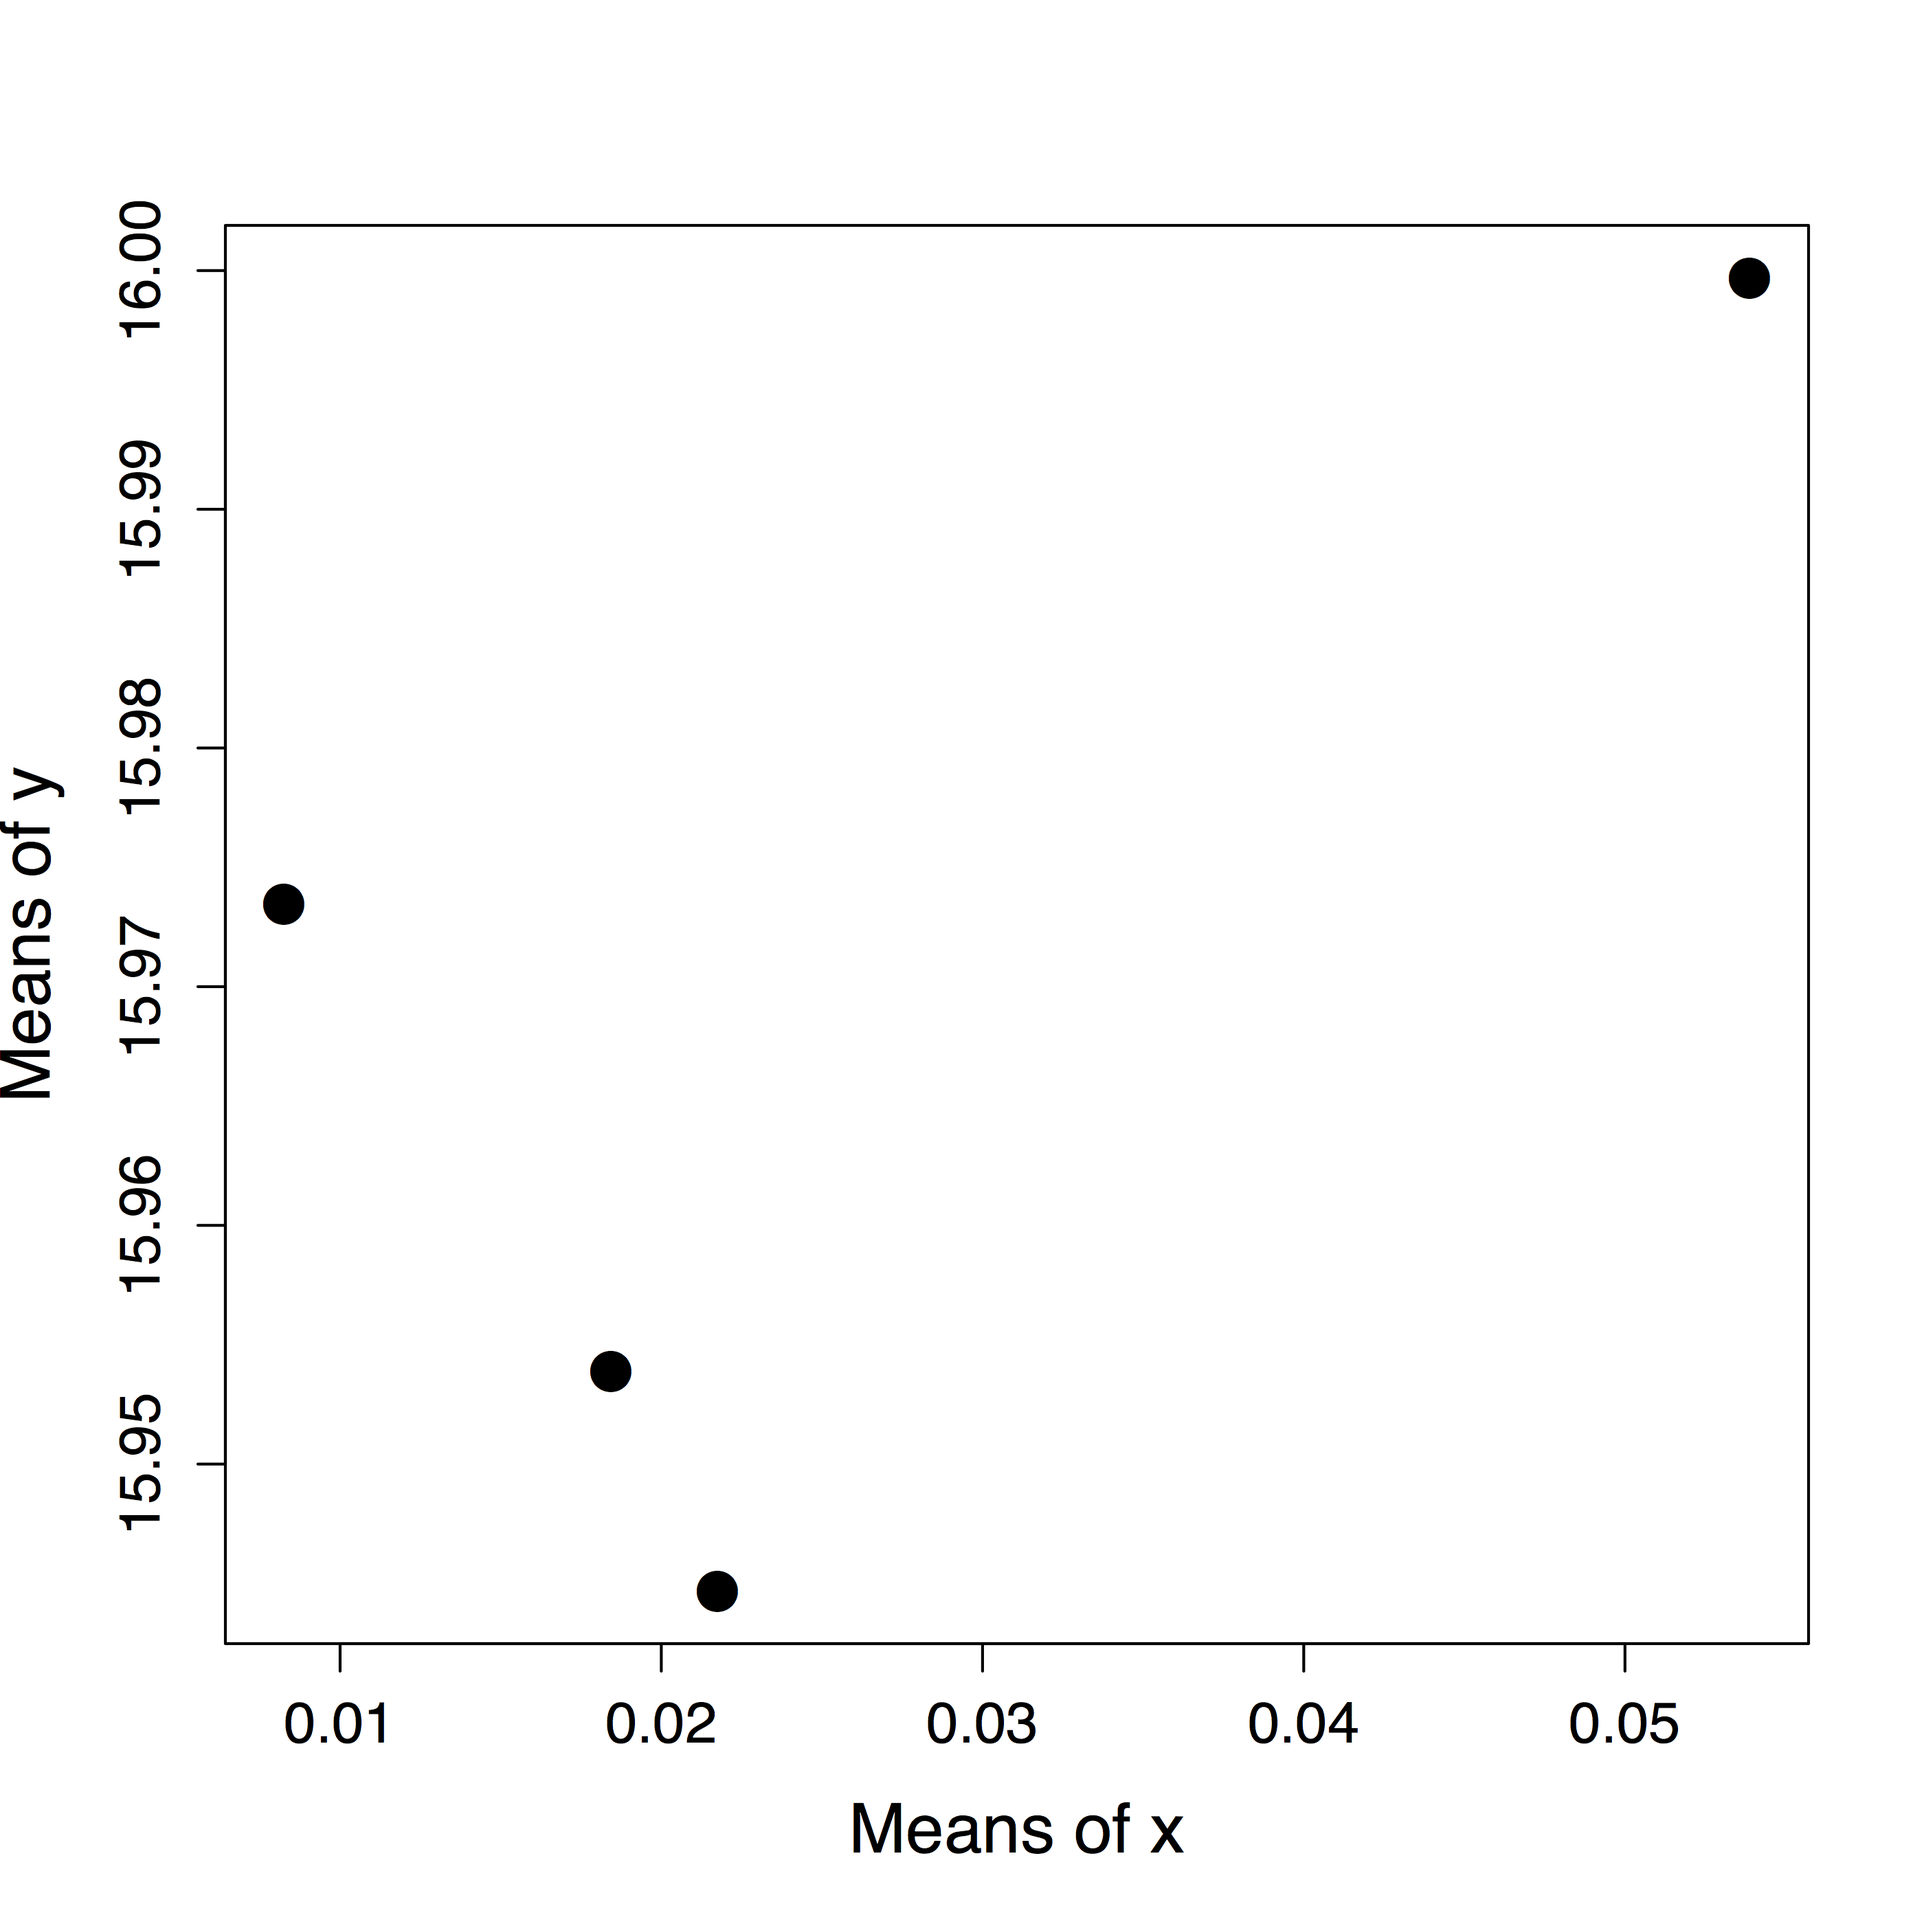
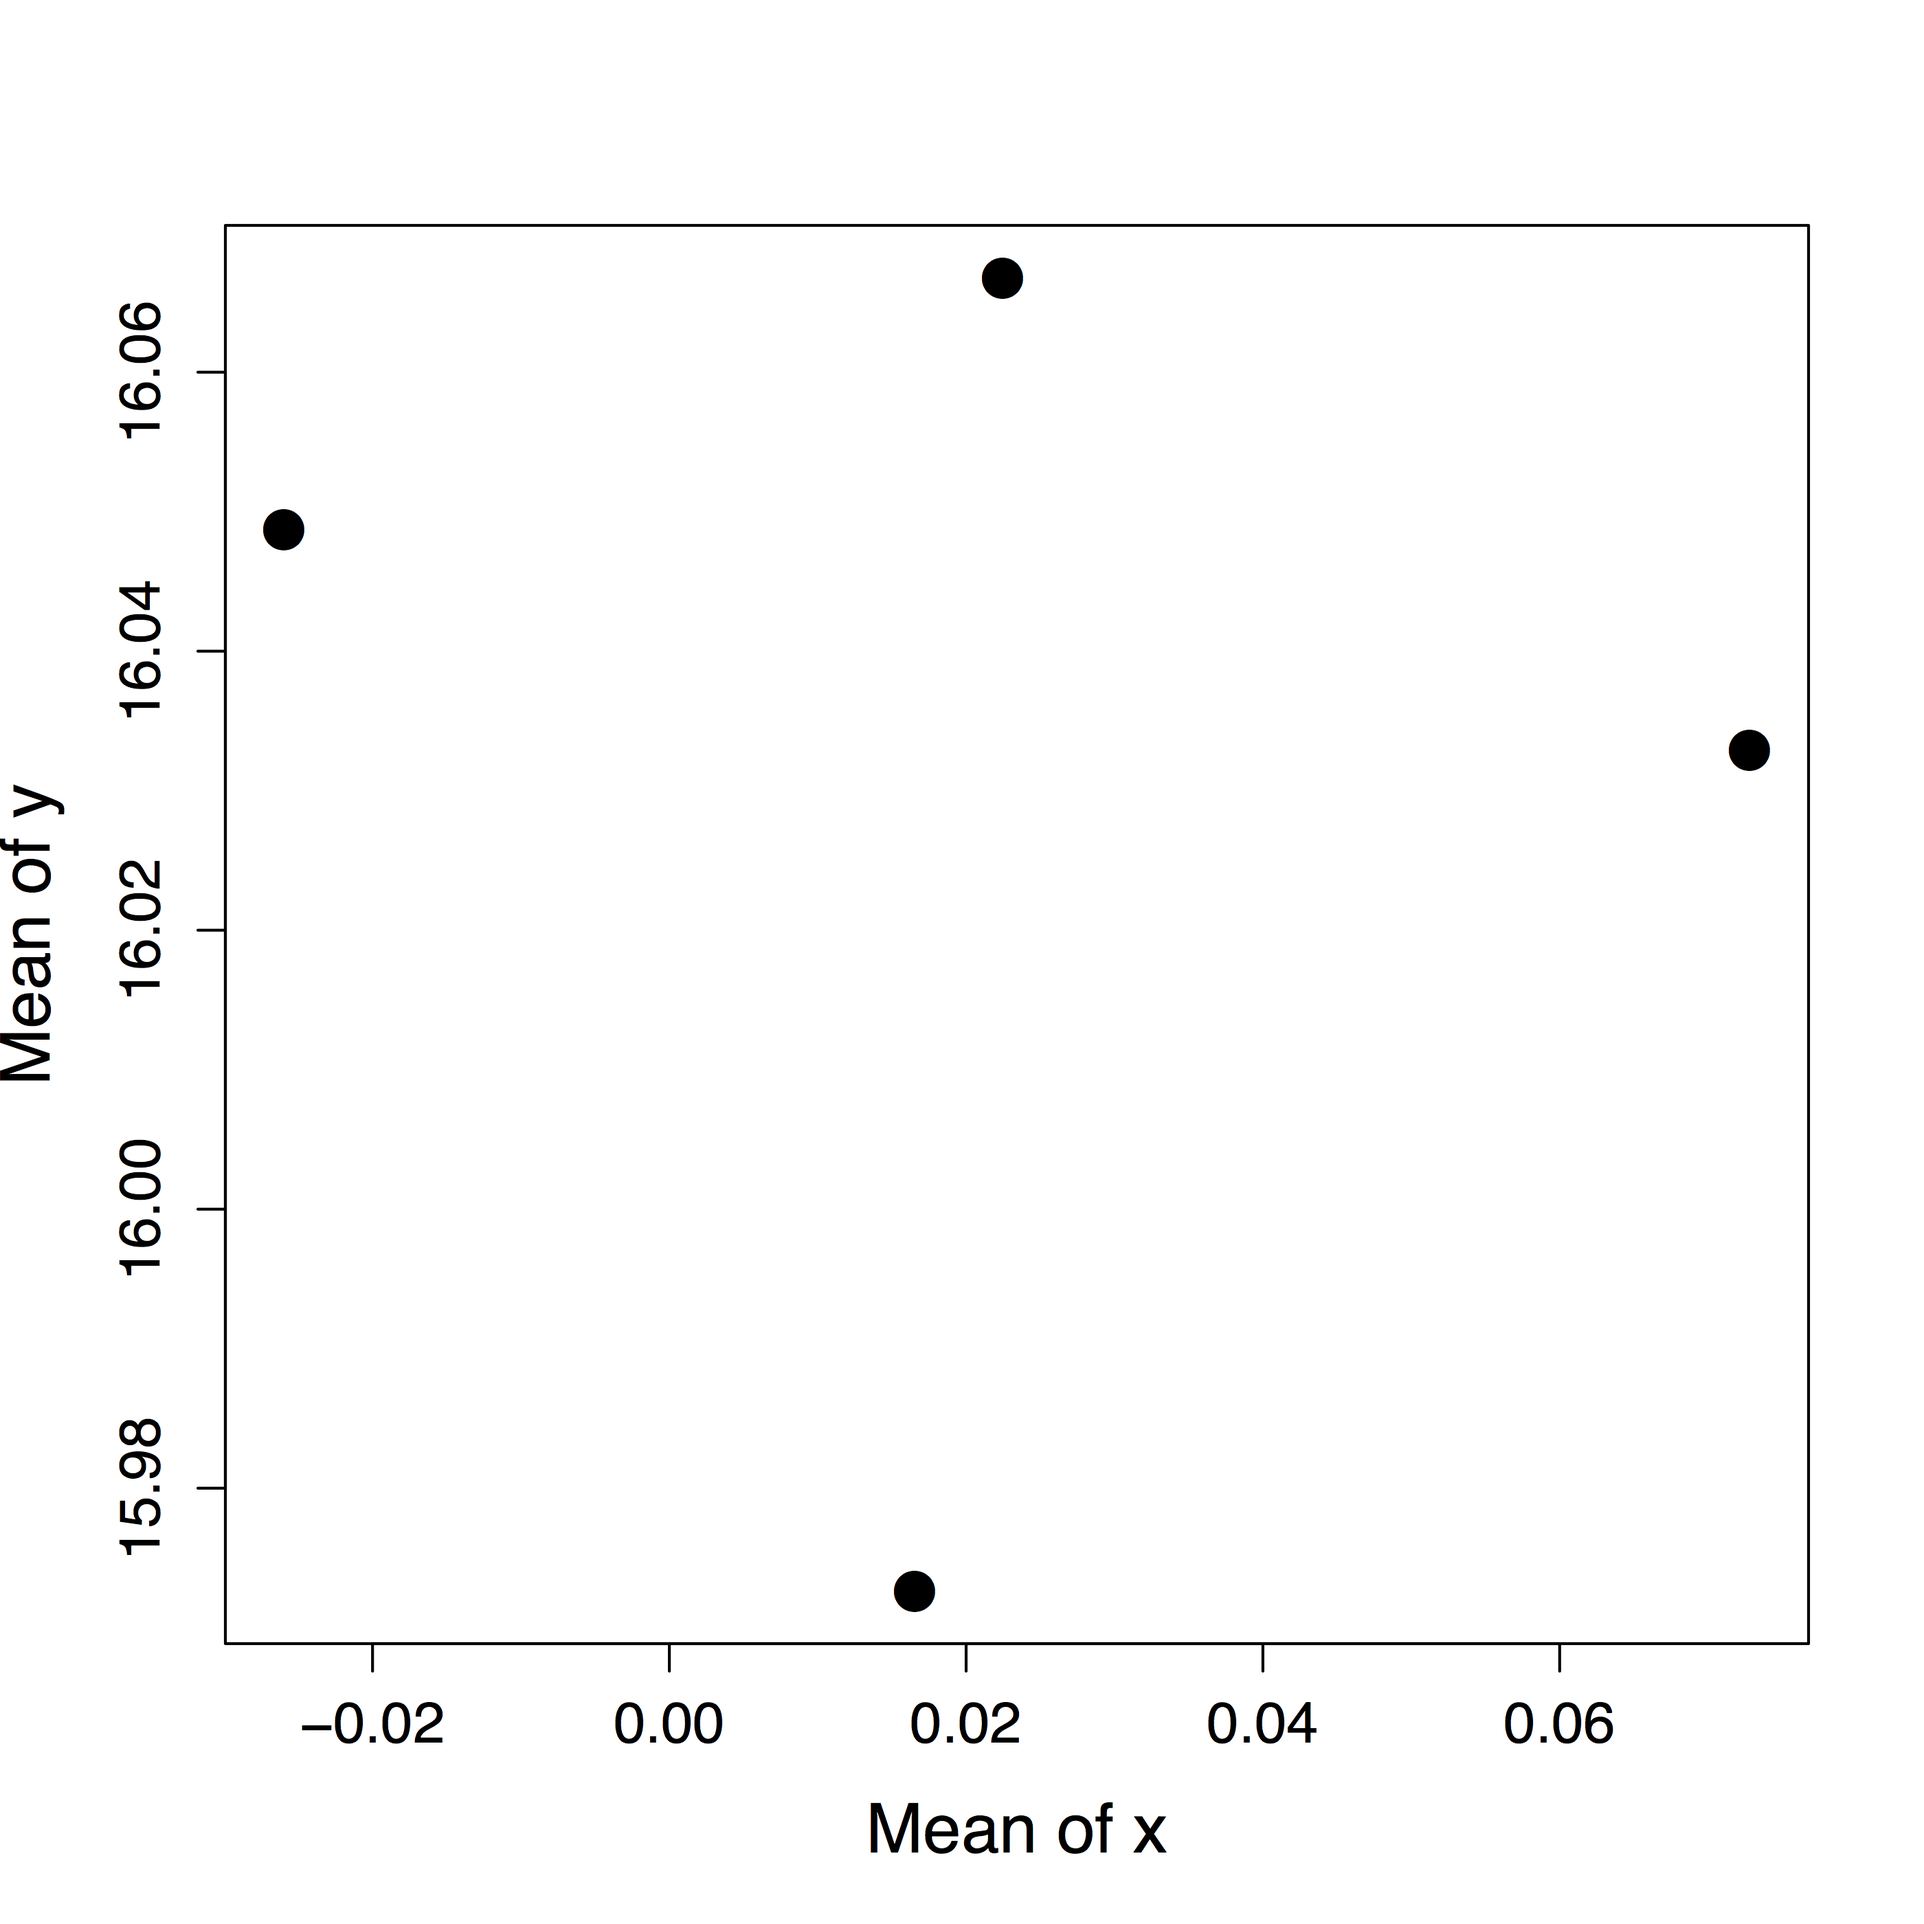
Polish example

diff --git a/example/README.md b/example/README.md
@@ -4,5 +4,5 @@ This folder contains the example from [parallelRemake/README.md](https://github.
 - Run Makefile.R in an R session to generate the [Makefile](https://www.gnu.org/software/make/) and its constituent [`remake`](https://github.com/richfitz/remake)/[YAML](http://yaml.org/) files.
 - Open a [command line program](http://linuxcommand.org/) such as [Terminal](https://en.wikipedia.org/wiki/Terminal_%28OS_X%29) and point to the [current working directory](http://www.linfo.org/cd.html).
 - Enter `make` into the command line to run the full workflow. To distribute the work over multiple parallel process, you can instead type `make -j <n>` where `<n>` is the number of processes.
-- Verify that the generated output `my_plot.pdf` looks like the provided example output `my_plot.jpg`.
+- Verify that the generated plot `my_plot.pdf` looks similar to the provided example plot `my_plot.jpg`.
 - Optionally, clean up the output. Typing `make clean` removes the files produced by `make`. Similarly, `make clean_yaml` removes the [YAML](http://yaml.org/) files produced by `write_yaml`, `make clean_makefile` removes the [Makefile](https://www.gnu.org/software/make/), and `make clean_all` is equivalent to `make clean clean_yaml clean_makefile`.

diff --git a/README.md b/README.md
@@ -25,10 +25,11 @@ The [code in this example](https://github.com/wlandau/parallelRemake/tree/master
 
 1. Generate four data frames, each with 1000 rows and columns `x` and `y`.
 2. Take the column means of each data frame.
-3. Plot the column means all together as below.
+3. Plot the column means as below, where each point corresponds to a single data frame.
 
+<div style = "text-align:center">
 <img src="example/my_plot.jpg" width = 300px height = 300px/>
-
+</div>
 
 Normally, this would be an easy job for [`remake`](https://github.com/richfitz/remake). However, let's say I want run tasks (1) and (2) in parallel processes, with one process per dataset. The [`remake`](https://github.com/richfitz/remake) package does not allow for much parallelism because it runs in a single R session, so I use `parallelRemake` to run pieces of the workflow in parallel instances of [`remake`](https://github.com/richfitz/remake). At the end of this tutorial, you will be able to call `make -j` to distribute the work over multiple parallel processes.
 
